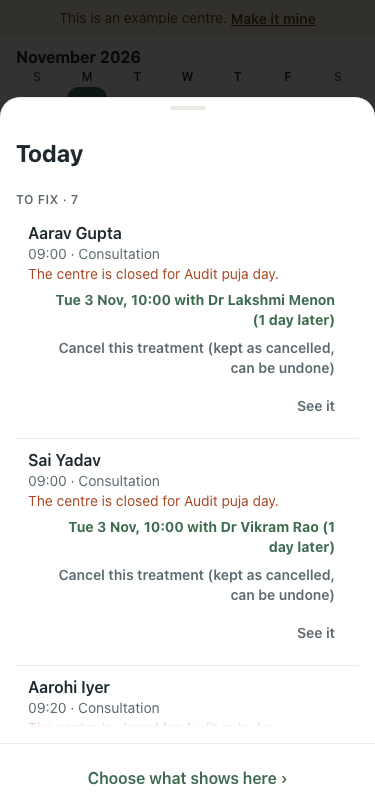
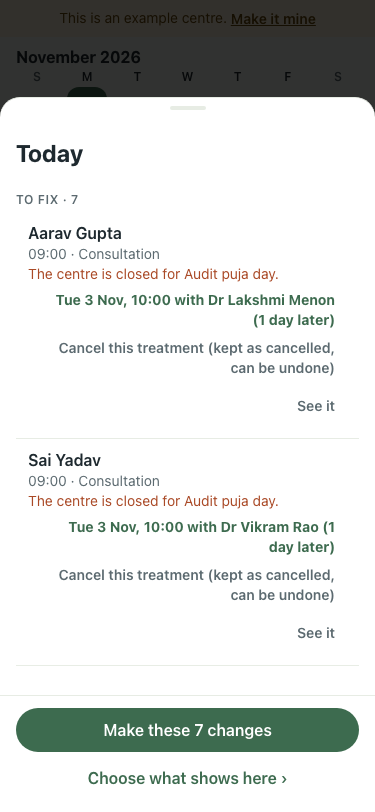
Closed day: the bulk button takes each treatment's suggested move (#1074)
The maintainer chose this on 22 Oct: a closure is planned and Undo covers
it. Cancel is never taken in bulk, and any other problem that offers a
choice stays out, as #358 says. With one cause, the row's own Fix all is
dropped because the foot's button says the same; the preview lists one
patient per line.

Changed region(s): [[0.0293, 0.8313, 0.968, 0.9236]]

diff --git a/src/components/AttentionSheet.tsx b/src/components/AttentionSheet.tsx
@@ -107,8 +107,9 @@ export function AttentionSheet({ open, onOpenChange, apiBase, day, today, proble
   useEffect(() => { if (open) { setDone(null); setError(null); setOpened([]); setShown([]); setPlan(""); fetch(`${apiBase}/diet-templates`).then((r) => r.json()).then((d) => setPlans(Array.isArray(d) ? d : [])).catch(() => setPlans([])); } }, [open, apiBase]);
 
   const act = problems.filter((p) => p.problem_class === "blocking");
-  // Only rows with one answer: a row asking the admin to choose is never chosen for them.
-  const fixable = act.filter((p) => p.fix && p.choices.length <= 1);
+  // Only rows with one answer, except a closed day (#1074): its move is taken in bulk, but a cancel is never chosen for the admin.
+  const suggested = (p: DayProblem) => p.choices.length <= 1 ? p.fix : p.kind === "CENTER_HOLIDAY" ? p.choices.find((c) => !c.cancel) ?? null : null;
+  const fixable = act.filter(suggested);
   // A resident with nothing booked is a rest day, not a note (#144).
   const urgent = problems.filter((p) => p.urgent && !dismissed.includes(p.id));
   const notes = problems.filter((p) => p.problem_class === "worth_knowing" && p.kind !== "IDLE_RESIDENT" && !p.urgent && !dismissed.includes(p.id) && !(dayOver && p.kind === "CONSULTED"));
@@ -234,11 +235,12 @@ export function AttentionSheet({ open, onOpenChange, apiBase, day, today, proble
   const causeRow = (g: DayProblem[]) => {
     const key = g[0].what;
     if (g.length < 2 || opened.includes(key)) return g.map(actionItem);
-    const one = g.every((p) => p.fix && p.choices.length <= 1);
+    const one = g.every(suggested);
     const n = `${g.length} treatments`;
     return [item(key, `${n} to move`,
-      <>{g.map((p) => `${p.start_time} ${p.patient_name}${p.fix && one ? ` → ${p.fix.label}` : ""}`).join(" · ")}<span className="block text-destructive">{key.replace(/ on this day/, "")}</span></>, <>
-        {one ? <button type="button" data-main className={tb(true)} disabled={busy !== null} onClick={() => apply(null, ...g.map((p) => p.fix!))}>{busy === "all" ? "Fixing…" : `Fix all ${g.length} as shown`}</button> : null}
+      <>{g.map((p) => <span key={p.id} className="block">{p.start_time} {p.patient_name}{one ? ` → ${suggested(p)!.label}` : ""}</span>)}<span className="block text-destructive">{key.replace(/ on this day/, "")}</span></>, <>
+        {/* With one cause the foot's button already says it (#1074). */}
+        {one && causes.length > 1 ? <button type="button" data-main className={tb(true)} disabled={busy !== null} onClick={() => apply(null, ...g.map((p) => suggested(p)!))}>{busy === "all" ? "Fixing…" : `Fix all ${g.length} as shown`}</button> : null}
         <button type="button" className={tb(!one)} onClick={() => setOpened([...opened, key])}>{one ? "Choose each" : `Open the ${n}`}</button>
       </>)];
   };
@@ -249,7 +251,7 @@ export function AttentionSheet({ open, onOpenChange, apiBase, day, today, proble
     <InboxSheet open={open} onOpenChange={onOpenChange} title={dayName} empty="Nothing else needs you."
       // The one bulk action sits under the thumb (#1074); the rules link is the quiet line below it.
       foot={<div className="space-y-1">
-        {fixable.length ? <Btn kind="primary" disabled={busy !== null} onClick={() => apply(null, ...fixable.map((p) => p.fix!))}>{busy === "all" ? "Fixing…" : fixable.length === 1 ? "Make this change" : `Make these ${fixable.length} changes`}</Btn> : null}
+        {fixable.length ? <Btn kind="primary" disabled={busy !== null} onClick={() => apply(null, ...fixable.map((p) => suggested(p)!))}>{busy === "all" ? "Fixing…" : fixable.length === 1 ? "Make this change" : `Make these ${fixable.length} changes`}</Btn> : null}
         <Btn kind="quiet" onClick={() => { onOpenChange(false); openRules(); }}>Choose what shows here ›</Btn>
       </div>}
       // The one inbox for the whole app (story 1). Patients and Team come from the rules in Settings, What needs you; empty sections do not show.

diff --git a/docs/design/DESIGN.md b/docs/design/DESIGN.md
@@ -159,7 +159,7 @@ Every list, sheet and button has all of these designed, not left to default.
 - **Diet sheet order** (#355, 6 Oct): the running plan's timeline (its step opens the plan to edit), then **Change to**, the plans with one-line descriptions, then the start date (Today preselected), then the patient's own **Medication and notes**, then Meals today. A plan is its 8 meals; medication and how to eat around treatment belong to the patient (decided 6 Oct) and print in their own row, the notes only on a treatment day.
 - **What a link records is read on the treatment** (#219, 6 Oct): the card shows "Recorded" (vitals, checks ticked, room ready) and "Patient said" (Good or Not good, and their words), read only, never flagged or printed; a 👎 is still a note in the inbox. Not summed per therapist or therapy (decided by Claude, to confirm: wait until a centre asks).
 - **One row per patient in the inbox** (6 Oct, #370): two things for one patient read as one row, facts joined ("Arrival notes not written · No diet plan"), opening their card; the pill counts patients, not items. Every date on screen comes from `dayText` ("Tue 6 Oct", no comma).
-- **Fix all** (6 Oct, #358): when two or more of the day's problems each have one answer, the sheet's foot carries a green "Make these N changes" under the thumb, and the list above is the preview (moved from the top, #1074). One call, one batch, one Undo. A problem that asks the admin to choose is never in it.
+- **Fix all** (6 Oct, #358): when two or more of the day's problems each have one answer, the sheet's foot carries a green "Make these N changes" under the thumb, and the list above is the preview (moved from the top, #1074). One call, one batch, one Undo. A problem that asks the admin to choose is never in it, except a closed day, whose suggested move is (never its cancel, #1074).
 - **Show the day by** (5 Oct): a "By time ▾" chip on the day's count line, beside "170 treatments · 22 rooms", opens a sheet with Time, Therapist, Room, Patient. It is a lens on the list, so it sits on the list, not in the Menu. Search is named "Search" (it reaches patients, therapists, treatments and other days), never "Search treatments".
 - **Leave is the team's** (5 Oct; narrowed 9 Oct, #671: people only, see `decisions/2026-10-09-leave-is-people-only.md`): the list holds staff, room, therapy and patient leave, which changes daily. The centre's closed days (public holidays, a closed day) are one row at the top, "Centre closed days · Next: Dussehra, 20 Oct", opening their own sheet; they are set about once a year. Each row's facts start with its kind (Therapist, Doctor, Room, Therapy, Patient), since a name alone does not say whether it is a room (#360).
 - **Open every day by default** (6 Oct, #393; decided by Claude, to confirm): a residential centre treats patients every day, so "Open on" starts with all seven days, as the setup wizard already does. A weekday the centre unticks is refused for booking like a centre closed day, with the next open day offered.

diff --git a/docs/design/decisions/2026-10-22-day-check-sheet-patient-first.md b/docs/design/decisions/2026-10-22-day-check-sheet-patient-first.md
@@ -7,4 +7,4 @@ Decided 22 Oct by the maintainer, from two prototypes (card per problem, one-tap
 - "Make these N changes" (was "Fix all N as shown") sits in the sheet's foot, in thumb reach on a phone, above "Choose what shows here ›" (was "What needs you · change the rules ›").
 - Staff on leave are one line, "Off today: Manish, Suresh and Bhavna", not a row each.
 - Section names lose "not counted": "To fix" (was "Day"), "For your information".
-- Unchanged: a problem that offers a choice (a closed day's move or cancel) is never in the bulk button (#358).
+- A closed day's treatments join the bulk button with their suggested move (maintainer, 22 Oct): a closure is planned and Undo covers it. Cancel is never taken in bulk, and any other problem that offers a choice stays out of it (#358).
